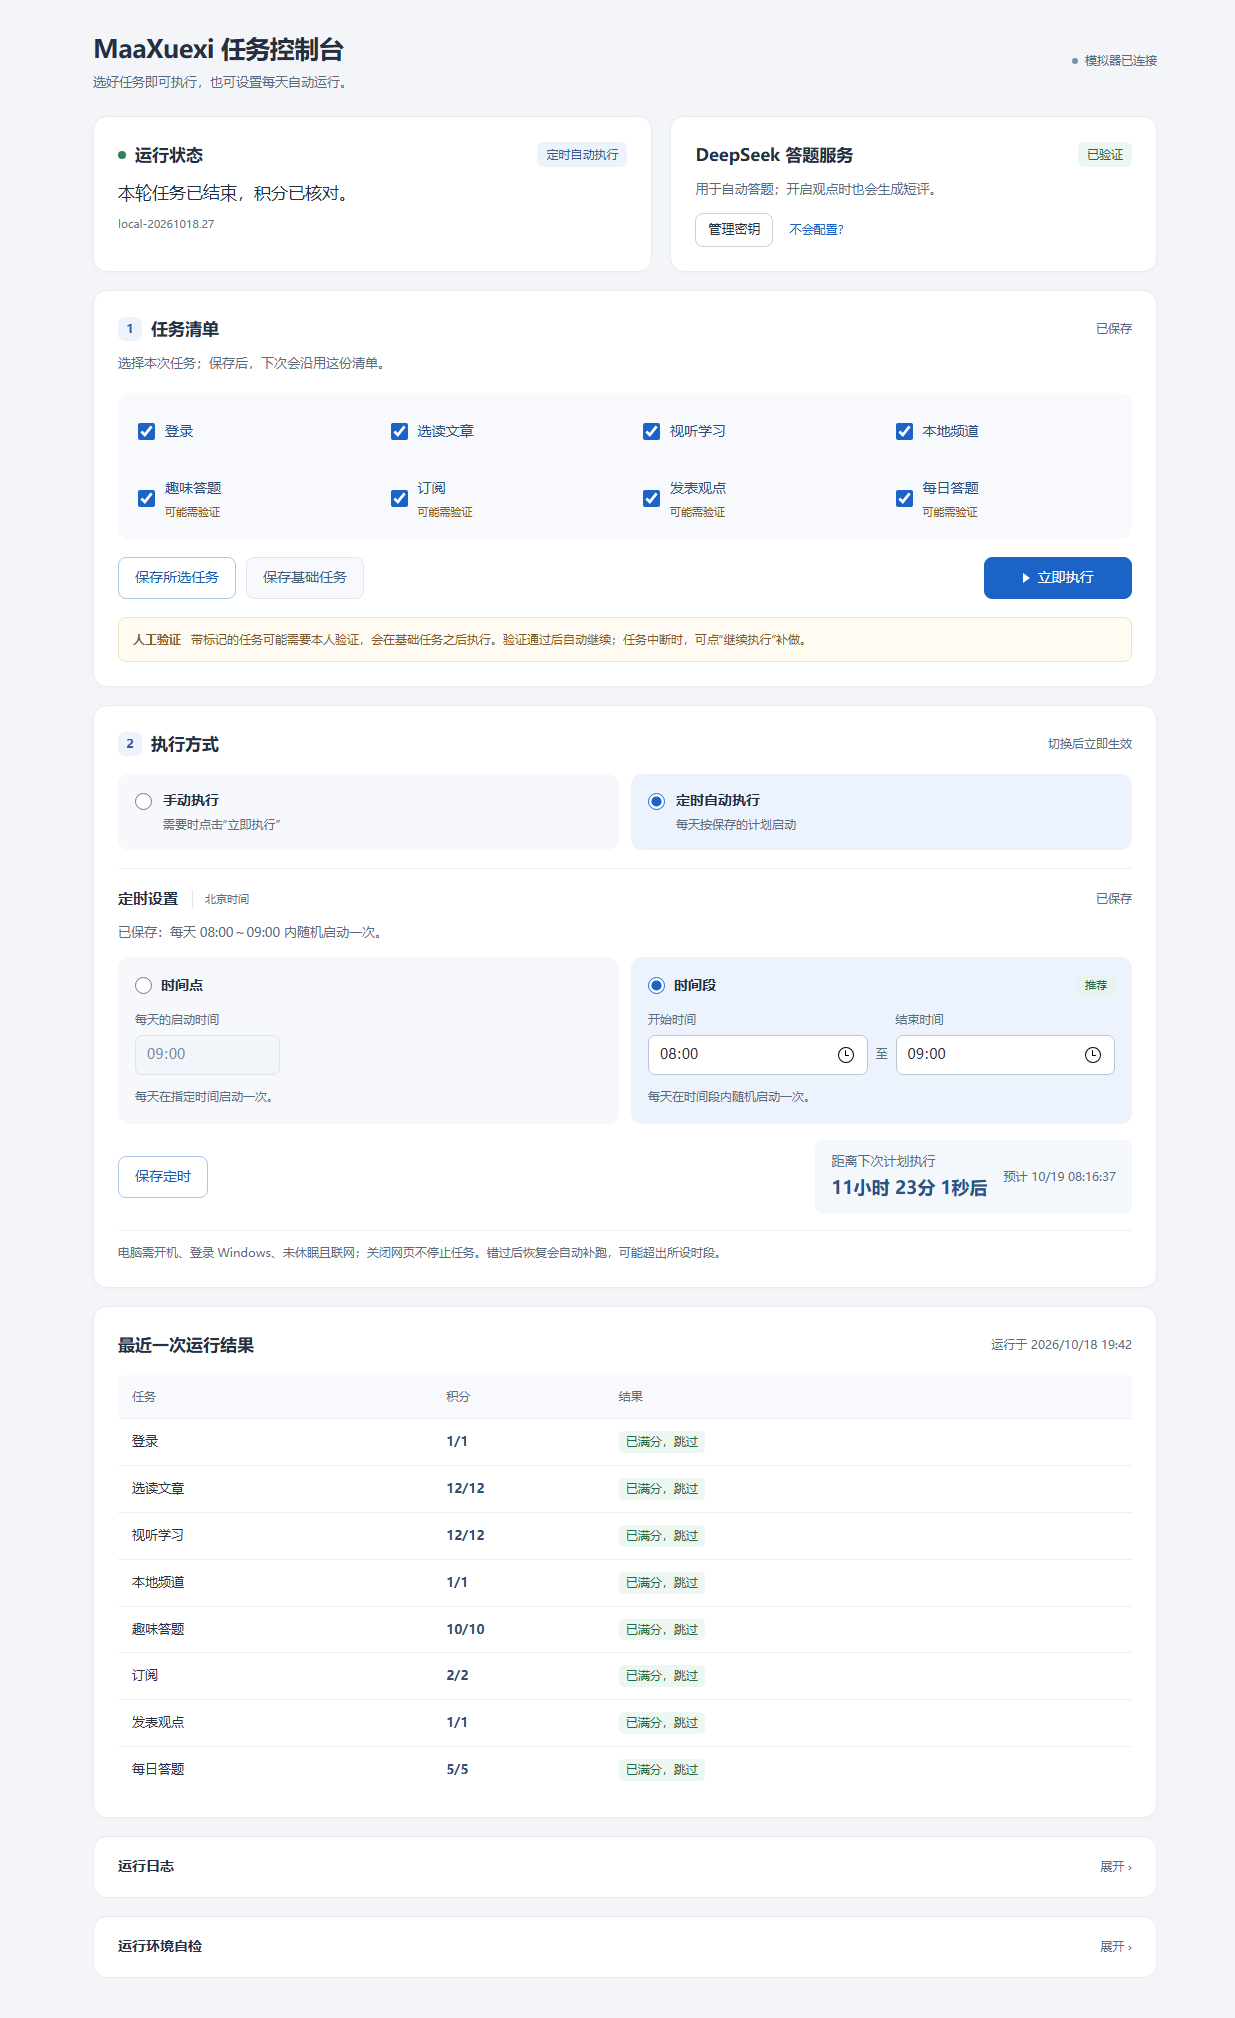
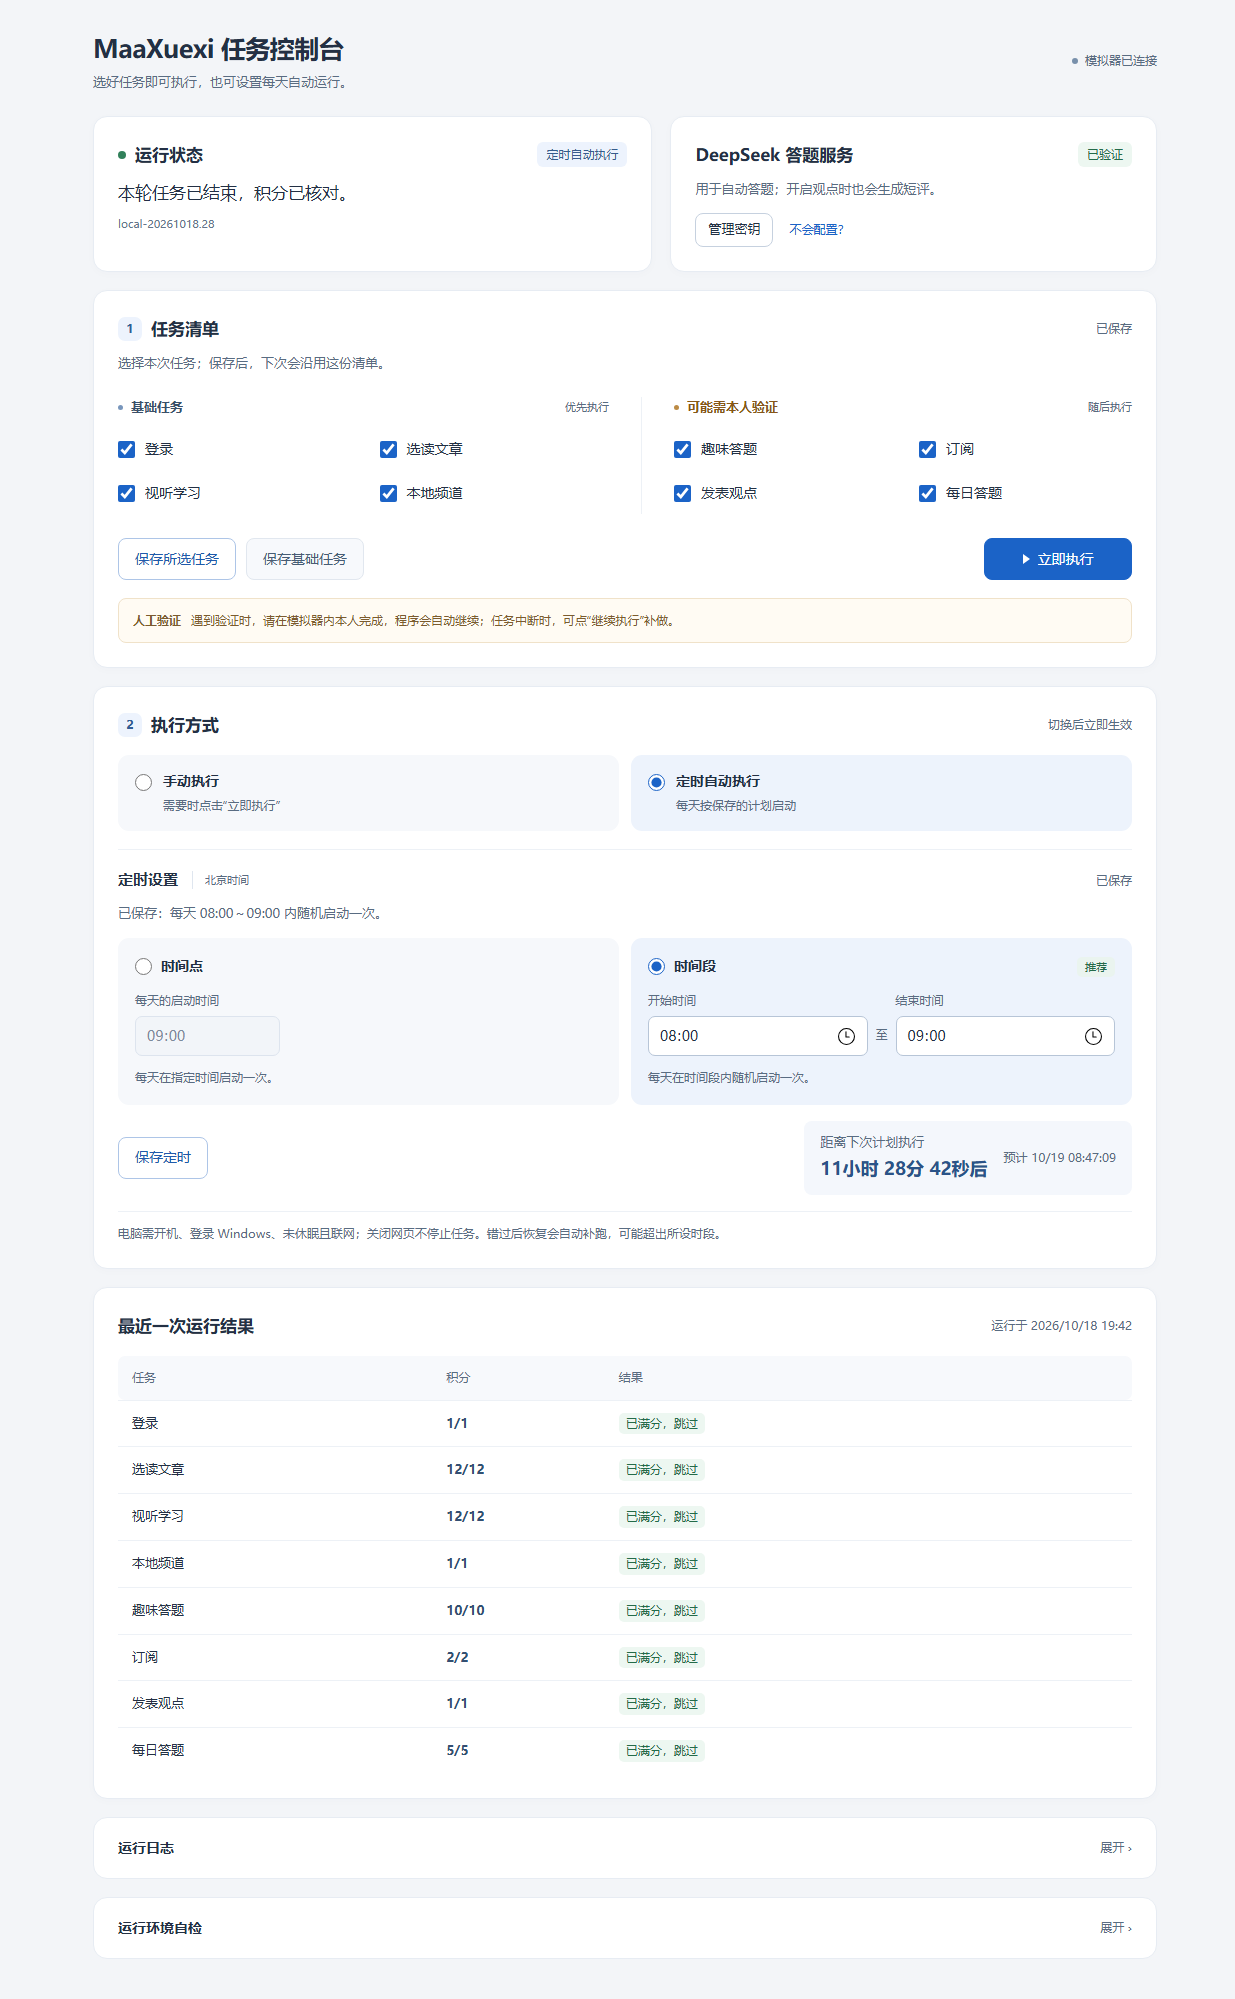
Group task choices with a lighter, more compact console layout

diff --git a/page/assets/console.css b/page/assets/console.css
@@ -71,15 +71,22 @@ button.primary:disabled { background: #dbe6f6; border-color: #dbe6f6; color: #58
 .step-number { display: inline-flex; align-items: center; justify-content: center; width: 24px; height: 24px; border-radius: 7px; background: #edf3fd; color: #315d96; font-size: 12px; font-weight: 650; flex: 0 0 auto; }
 .schedule-edit { margin-left: auto; font-size: 12px; color: var(--muted); }
 .schedule-edit.unsaved { color: #93531c; }
-.task-grid { display: grid; grid-template-columns: repeat(4, minmax(0, 1fr)); gap: 4px 12px; margin: 18px 0; padding: 8px; border-radius: 12px; background: #f7f9fc; }
-.task-option { display: flex; align-items: center; gap: 10px; min-height: 62px; margin: 0; padding: 10px 12px; border: 0; border-radius: 9px; cursor: pointer; transition: background .15s; }
-.task-option:hover { background: #eaf0f8; }
-.task-option:has(input:checked) .task-copy > span:first-child { color: #294d7c; }
+.task-grid { display: grid; grid-template-columns: 1fr 1fr; gap: 32px; margin: 22px 0 24px; }
+.task-group { min-width: 0; }
+.task-group + .task-group { border-left: 1px solid var(--soft-line); padding-left: 32px; }
+.task-group-heading { display: flex; align-items: center; justify-content: space-between; gap: 12px; margin-bottom: 10px; }
+.task-group-heading h3 { display: flex; align-items: center; gap: 8px; color: #3b5069; font-size: 13px; font-weight: 600; }
+.task-group-heading h3::before { content: ''; width: 5px; height: 5px; border-radius: 50%; background: #7896bc; flex: 0 0 auto; }
+.task-group-heading h3.verification-tag { color: var(--amber); }
+.task-group-heading .verification-tag::before { background: #bc8b45; }
+.task-group-heading > span { color: var(--muted); font-size: 11px; }
+.task-items { display: grid; grid-template-columns: 1fr 1fr; gap: 2px 16px; margin: 0 -8px; }
+.task-option { display: flex; align-items: center; gap: 10px; min-height: 42px; margin: 0; padding: 9px 8px; border: 0; border-radius: 6px; cursor: pointer; transition: background .15s; }
+.task-option:hover { background: #f3f6fb; }
 .task-option:has(input:focus-visible), .execution-option:has(input:focus-visible) { outline: 3px solid #3678d1; outline-offset: 3px; }
 .task-option:has(input:disabled), .execution-option:has(input:disabled) { cursor: default; }
 input[type=checkbox], input[type=radio] { width: 17px; height: 17px; flex: 0 0 17px; margin: 0; accent-color: var(--blue); }
-.task-copy { display: flex; flex-direction: column; gap: 3px; min-width: 0; font-weight: 500; }
-.verification-tag { color: var(--amber); font-size: 11px; font-weight: 400; }
+.task-copy { min-width: 0; font-weight: 500; }
 .task-actions { display: flex; align-items: center; gap: 10px; }
 .start-button { margin-left: auto; min-width: 148px; }
 .start-button::before { content: ''; width: 0; height: 0; border-top: 5px solid transparent; border-bottom: 5px solid transparent; border-left: 7px solid currentColor; }
@@ -168,8 +175,9 @@ pre { max-height: 310px; overflow: auto; white-space: pre-wrap; overflow-wrap: a
   .page-header { align-items: flex-start; flex-direction: column; gap: 6px; margin-bottom: 16px; }
   h1 { font-size: 23px; }
   .card { padding: 18px; margin-bottom: 14px; border-radius: 11px; }
-  .task-grid { grid-template-columns: repeat(2, minmax(0, 1fr)); }
-  .task-option { padding: 10px 12px; }
+  .task-grid { grid-template-columns: 1fr; gap: 16px; margin: 20px 0; }
+  .task-group + .task-group { border-left: 0; border-top: 1px solid var(--soft-line); padding: 16px 0 0; }
+  .task-group-heading { margin-bottom: 6px; }
   .schedule-options { grid-template-columns: 1fr; }
   .schedule-option { padding: 14px; }
   .utility-card { padding: 0; }

diff --git a/page/index.html b/page/index.html
@@ -4,7 +4,7 @@
   <meta charset="utf-8">
   <meta name="viewport" content="width=device-width,initial-scale=1">
   <title>MaaXuexi · 任务控制台</title>
-  <link rel="stylesheet" href="/assets/console.css?v=local-20261018.27">
+  <link rel="stylesheet" href="/assets/console.css?v=local-20261018.28">
 </head>
 <body>
 <main>
@@ -29,10 +29,19 @@
   <section class="card task-card" aria-labelledby="taskHeading">
     <div class="section-heading"><h2 id="taskHeading"><span class="step-number" aria-hidden="true">1</span>任务清单</h2><span id="taskEditState" class="schedule-edit">读取中</span></div>
     <p class="section-description">选择本次任务；保存后，下次会沿用这份清单。</p>
-    <div id="choices" class="task-grid" role="group" aria-labelledby="taskHeading"></div>
+    <div id="choices" class="task-grid" role="group" aria-labelledby="taskHeading">
+      <section class="task-group" aria-labelledby="basicTaskHeading">
+        <div class="task-group-heading"><h3 id="basicTaskHeading">基础任务</h3><span>优先执行</span></div>
+        <div id="basicChoices" class="task-items"></div>
+      </section>
+      <section class="task-group" aria-labelledby="verificationTaskHeading">
+        <div class="task-group-heading"><h3 id="verificationTaskHeading" class="verification-tag">可能需本人验证</h3><span>随后执行</span></div>
+        <div id="verificationChoices" class="task-items"></div>
+      </section>
+    </div>
     <div class="task-actions"><button id="save" class="accent" disabled>保存所选任务</button><button id="saveBase" class="quiet" disabled title="保存登录、选读文章、视听学习、本地频道四项">保存基础任务</button><button id="start" class="primary start-button" disabled>立即执行</button></div>
     <p id="actionMessage" class="feedback" role="status" aria-live="polite"></p>
-    <aside class="verification-note" aria-label="人工验证提示"><p><strong>人工验证</strong>带标记的任务可能需要本人验证，会在基础任务之后执行。验证通过后自动继续；任务中断时，可点“继续执行”补做。</p></aside>
+    <aside class="verification-note" aria-label="人工验证提示"><p><strong>人工验证</strong>遇到验证时，请在模拟器内本人完成，程序会自动继续；任务中断时，可点“继续执行”补做。</p></aside>
   </section>
   <section class="card execution-card" aria-label="执行方式设置">
     <fieldset class="execution-choices">

diff --git a/page/assets/local-provider.js b/page/assets/local-provider.js
@@ -15,10 +15,8 @@
     label.className='task-option';input.type='checkbox';input.disabled=true;
     const copy=document.createElement('span'),title=document.createElement('span');
     copy.className='task-copy';title.textContent=name;copy.append(title);
-    if(verificationTasks.has(name)){
-      const badge=document.createElement('span');badge.className='verification-tag';badge.textContent='可能需验证';copy.append(badge);
-    }
-    label.append(input,copy);$('choices').append(label);inputs.set(name,input);
+    label.append(input,copy);
+    $(verificationTasks.has(name)?'verificationChoices':'basicChoices').append(label);inputs.set(name,input);
     input.addEventListener('change',renderSavedState);
   }
   async function request(path,body,signal){

diff --git a/backend/task_support.py b/backend/task_support.py
@@ -7,7 +7,7 @@ import uuid
 from datetime import datetime
 from pathlib import Path
 
-VERSION = "local-20261018.27"
+VERSION = "local-20261018.28"
 REPORT_PATH = Path("config/last-run.json")
 # Login is a prerequisite. Then usual no-challenge tasks, occasional-challenge tasks
 # by daily cap (10/2/1), and daily quiz last (frequent challenge on this emulator).

diff --git a/CHANGELOG.md b/CHANGELOG.md
@@ -1,5 +1,12 @@
 # 更新记录
 
+## 任务区排版调整 · 2026-10-18
+
+后台标识：`local-20261018.28`。
+
+- 任务选择改为基础任务与可能需本人验证两组，去掉大面积灰底和逐项重复提示，统一文字颜色、行高与点击范围。
+- 电脑上并排呈现，窄屏下依次排列；保存、执行、暂停及续做行为保持一致。
+
 ## 公开整理版 · 2026-10-18
 
 后台标识：`local-20261018.27`。
